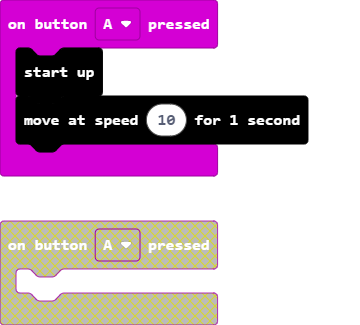
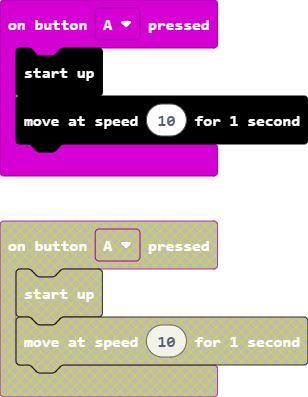
Update pxt.json, main.blocks, main.py

diff --git a/main.py b/main.py
@@ -1,0 +1,4 @@
+def on_button_pressed_a():
+    MTS_Initialise.Start_Up()
+    MTS_Movement.move(10)
+input.on_button_pressed(Button.A, on_button_pressed_a)
